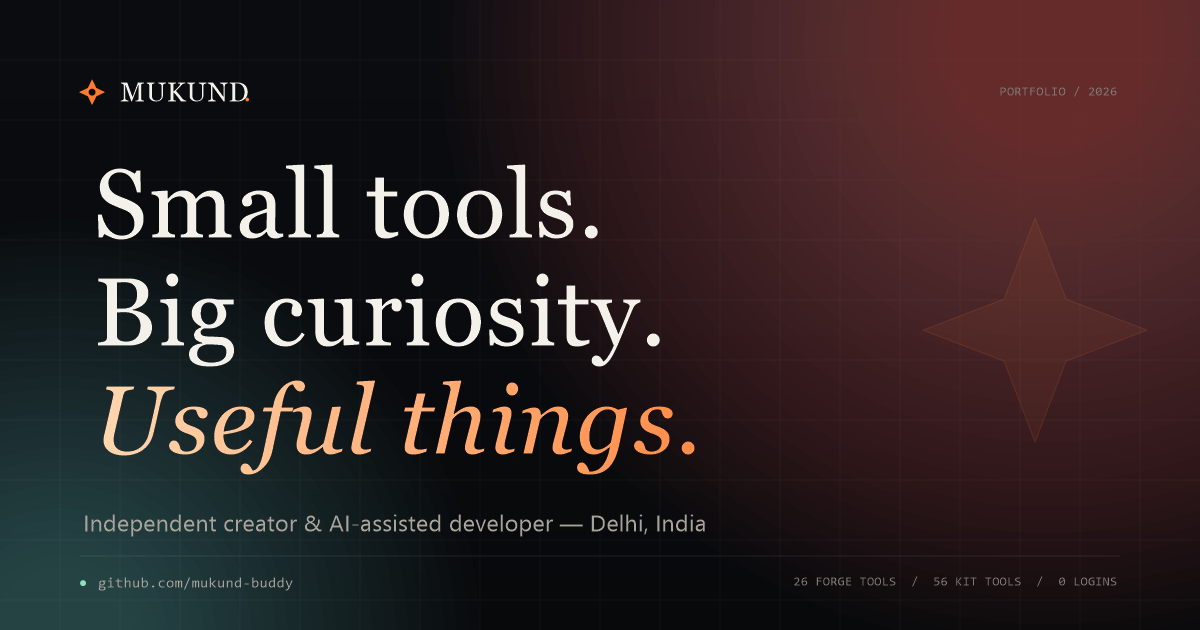
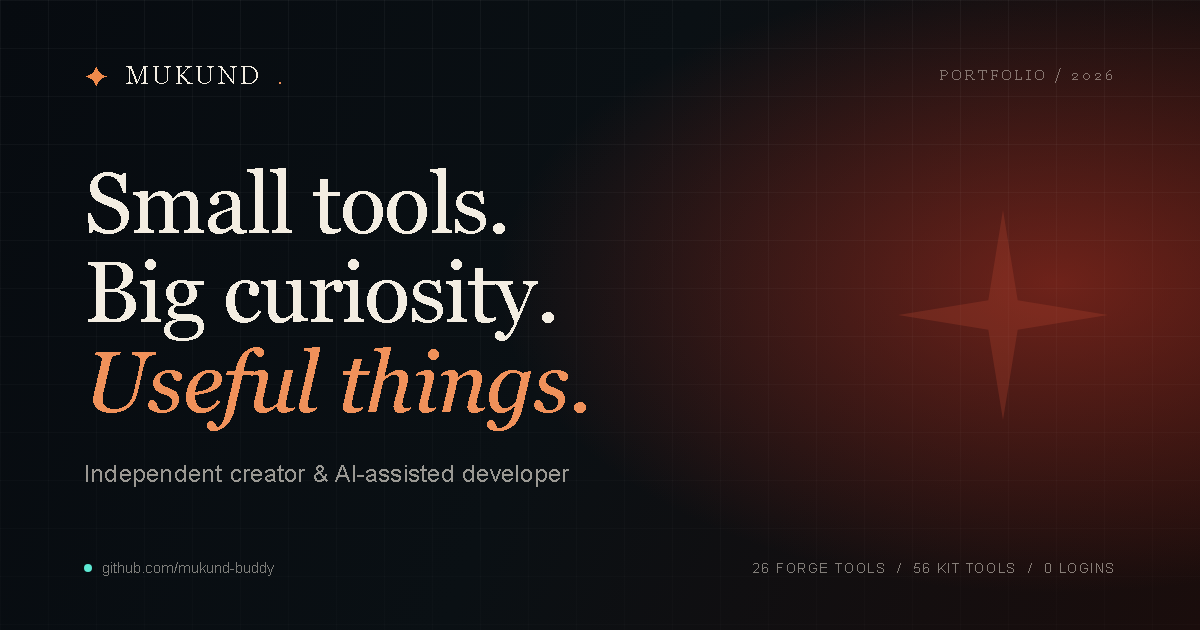
Remove personal contact details, location, and portrait

diff --git a/index.html b/index.html
@@ -4,20 +4,20 @@
   <meta charset="UTF-8">
   <meta name="viewport" content="width=device-width, initial-scale=1.0">
   <title>Mukund — Independent Creator &amp; AI-Assisted Developer</title>
-  <meta name="description" content="Mukund is an independent creator and AI-assisted developer from Delhi, building local-first browser tools, Minecraft Bedrock utilities, and open-source experiments under The Antigle. Creator of Not Gaming Playz and Adventigle.">
+  <meta name="description" content="Mukund is an independent creator and AI-assisted developer building local-first browser tools, Minecraft Bedrock utilities, and open-source experiments under The Antigle. Creator of Not Gaming Playz and Adventigle.">
   <meta name="author" content="Mukund">
   <meta name="theme-color" content="#08090b">
 
   <meta property="og:type" content="website">
   <meta property="og:title" content="Mukund — Small tools. Big curiosity. Useful things.">
-  <meta property="og:description" content="Independent creator and AI-assisted developer from Delhi. Building local-first browser tools, Minecraft Bedrock utilities, and open-source experiments. Creator of Not Gaming Playz and Adventigle.">
+  <meta property="og:description" content="Independent creator and AI-assisted developer building local-first browser tools, Minecraft Bedrock utilities, and open-source experiments. Creator of Not Gaming Playz and Adventigle.">
   <meta property="og:image" content="assets/og.png">
   <meta property="og:image:width" content="1200">
   <meta property="og:image:height" content="630">
   <meta property="og:site_name" content="Mukund">
   <meta name="twitter:card" content="summary_large_image">
   <meta name="twitter:title" content="Mukund — Small tools. Big curiosity. Useful things.">
-  <meta name="twitter:description" content="Independent creator and AI-assisted developer from Delhi. Building local-first browser tools, Minecraft Bedrock utilities, and open-source experiments. Creator of Not Gaming Playz and Adventigle.">
+  <meta name="twitter:description" content="Independent creator and AI-assisted developer building local-first browser tools, Minecraft Bedrock utilities, and open-source experiments. Creator of Not Gaming Playz and Adventigle.">
   <meta name="twitter:image" content="assets/og.png">
 
   <link rel="icon" type="image/svg+xml" href="assets/favicon.svg">
@@ -34,13 +34,7 @@
     "name": "Mukund",
     "alternateName": "mukund-buddy",
     "jobTitle": "Independent Creator & AI-Assisted Developer",
-    "description": "Independent creator and AI-assisted developer from Delhi building local-first browser tools, Minecraft Bedrock utilities, and open-source experiments under The Antigle. Creator of Not Gaming Playz and Adventigle.",
-    "email": "mailto:jmukund9625@gmail.com",
-    "address": {
-      "@type": "PostalAddress",
-      "addressLocality": "Delhi",
-      "addressCountry": "IN"
-    },
+    "description": "Independent creator and AI-assisted developer building local-first browser tools, Minecraft Bedrock utilities, and open-source experiments under The Antigle. Creator of Not Gaming Playz and Adventigle.",
     "sameAs": [
       "https://github.com/mukund-buddy",
       "https://www.youtube.com/@notgamingplayz",
@@ -75,7 +69,7 @@
       </nav>
 
       <div class="header-actions">
-        <a class="btn btn-small btn-ghost header-cta" href="mailto:jmukund9625@gmail.com">
+        <a class="btn btn-small btn-ghost header-cta" href="#contact">
           Say hello
           <svg viewBox="0 0 16 16" fill="none" stroke="currentColor" stroke-width="1.5" stroke-linecap="round" stroke-linejoin="round" aria-hidden="true"><path d="M4 12L12 4M6 4h6v6"/></svg>
         </a>
@@ -97,13 +91,12 @@
       <a href="#contact"><span>05</span>Contact</a>
     </nav>
     <div class="mobile-menu-foot">
-      <a href="mailto:jmukund9625@gmail.com">jmukund9625@gmail.com</a>
       <div class="mobile-socials">
         <a href="https://github.com/mukund-buddy" target="_blank" rel="noopener">GitHub</a>
         <a href="https://www.youtube.com/@notgamingplayz" target="_blank" rel="noopener">YouTube · Main</a>
         <a href="https://www.youtube.com/@adventigle" target="_blank" rel="noopener">YouTube · Adventigle</a>
       </div>
-      <p>Delhi, India · Open to collaborations</p>
+      <p>Open to collaborations</p>
     </div>
   </div>
 
@@ -118,13 +111,13 @@
 
       <div class="container hero-inner">
         <div class="hero-copy">
-          <p class="eyebrow"><span class="pulse-dot"></span> Independent creator · Delhi, India</p>
+          <p class="eyebrow"><span class="pulse-dot"></span> Independent creator</p>
           <h1 class="hero-title" id="hero-title">
             <span class="line"><span>Small tools.</span></span>
             <span class="line"><span>Big curiosity.</span></span>
             <span class="line"><span class="accent-italic">Useful things.</span></span>
           </h1>
-          <p class="hero-lede">I'm Mukund — an independent creator and AI-assisted developer from Delhi. I build local-first browser tools, Minecraft Bedrock utilities, and open-source experiments that respect your privacy, your time, and your attention.</p>
+          <p class="hero-lede">I'm Mukund — an independent creator and AI-assisted developer. I build local-first browser tools, Minecraft Bedrock utilities, and open-source experiments that respect your privacy, your time, and your attention.</p>
           <div class="hero-actions">
             <a class="btn btn-primary" href="#work">
               Explore the work
@@ -171,10 +164,10 @@
 
     <div class="ticker" aria-hidden="true">
       <div class="ticker-track">
-        <span>Local-first</span><i>✦</i><span>Minecraft Bedrock</span><i>✦</i><span>AI-assisted</span><i>✦</i><span>Open source</span><i>✦</i><span>Privacy-first</span><i>✦</i><span>Serverless</span><i>✦</i><span>Vanilla JS</span><i>✦</i><span>Delhi, India</span><i>✦</i>
+        <span>Local-first</span><i>✦</i><span>Minecraft Bedrock</span><i>✦</i><span>AI-assisted</span><i>✦</i><span>Open source</span><i>✦</i><span>Privacy-first</span><i>✦</i><span>Serverless</span><i>✦</i><span>Vanilla JS</span><i>✦</i><span>India</span><i>✦</i>
       </div>
       <div class="ticker-track">
-        <span>Local-first</span><i>✦</i><span>Minecraft Bedrock</span><i>✦</i><span>AI-assisted</span><i>✦</i><span>Open source</span><i>✦</i><span>Privacy-first</span><i>✦</i><span>Serverless</span><i>✦</i><span>Vanilla JS</span><i>✦</i><span>Delhi, India</span><i>✦</i>
+        <span>Local-first</span><i>✦</i><span>Minecraft Bedrock</span><i>✦</i><span>AI-assisted</span><i>✦</i><span>Open source</span><i>✦</i><span>Privacy-first</span><i>✦</i><span>Serverless</span><i>✦</i><span>Vanilla JS</span><i>✦</i><span>India</span><i>✦</i>
       </div>
     </div>
 
@@ -429,13 +422,13 @@
           <p class="section-index">02 — About</p>
           <div class="section-head-row">
             <h2 id="about-title">Learn by building.<br><em>Then build better.</em></h2>
-            <p class="section-note">No fake skills, no borrowed stories. Just a builder from Delhi who would rather ship a useful thing than talk about one.</p>
+            <p class="section-note">No fake skills, no borrowed stories. Just a builder who would rather ship a useful thing than talk about one.</p>
           </div>
         </div>
 
         <div class="about-grid">
           <div class="about-copy" data-reveal>
-            <p class="about-lead">I'm a student, creator, and builder from Delhi who learns by shipping.</p>
+            <p class="about-lead">I'm a student, creator, and builder who learns by shipping.</p>
             <p>My classroom is a browser tab. I start with a small annoyance — a file that's hard to edit, a tool that demands a login, a workflow that should be one click — and build the missing piece. Most of it ends up local-first, open source, and free to use.</p>
             <p>I work at the intersection of AI-assisted development, open-source software, and Minecraft Bedrock. I'm not chasing frameworks or buzzwords. I care about whether a thing is fast, private, and genuinely useful when someone opens it.</p>
             <p>Right now I'm sharpening my programming fundamentals, exploring local AI workflows, and growing The Antigle into a family of tools people can rely on.</p>
@@ -445,13 +438,11 @@
           <aside class="identity-card spotlight" data-reveal aria-label="Mukund's identity card">
             <div class="identity-visual" aria-hidden="true">
               <span class="monogram">M</span>
-              <img class="identity-portrait" src="assets/me.png" alt="" width="768" height="768" loading="lazy" decoding="async">
               <span class="identity-spark">✦</span>
               <span class="identity-hindi">मुकुंद</span>
             </div>
             <div class="identity-meta">
-              <div><span class="label">Based in</span><strong>Delhi, India</strong></div>
-              <div><span class="label">Coordinates</span><strong>28.61° N, 77.20° E</strong></div>
+              <div><span class="label">Based in</span><strong>India</strong></div>
               <div><span class="label">Status</span><strong class="status-live"><span class="dot"></span> Open to collaborations</strong></div>
               <div><span class="label">Working on</span><strong>The Antigle ecosystem</strong></div>
             </div>
@@ -618,22 +609,18 @@
         <h2 id="contact-title">Have a problem<br><em>worth solving?</em></h2>
         <p class="contact-lede">I'm open to collaborations, product ideas, open-source contributions, and creator projects. If you're building something useful — or want to — my inbox is open.</p>
         <div class="contact-actions">
-          <a class="btn btn-primary btn-large" href="mailto:jmukund9625@gmail.com">
-            <svg viewBox="0 0 24 24" fill="none" stroke="currentColor" stroke-width="1.5" stroke-linecap="round" stroke-linejoin="round" aria-hidden="true"><rect x="3" y="5" width="18" height="14" rx="2"/><path d="M3 7l9 6 9-6"/></svg>
-            jmukund9625@gmail.com
+          <a class="btn btn-primary btn-large" href="https://www.youtube.com/@notgamingplayz" target="_blank" rel="noopener">
+            <svg viewBox="0 0 24 24" fill="none" stroke="currentColor" stroke-width="1.5" stroke-linecap="round" stroke-linejoin="round" aria-hidden="true"><path d="M4 6h16v12H4z"/><path d="M10 9l5 3-5 3z"/></svg>
+            Message on YouTube
           </a>
-          <button class="btn btn-ghost btn-large copy-btn" type="button" data-copy="jmukund9625@gmail.com">
-            <svg viewBox="0 0 24 24" fill="none" stroke="currentColor" stroke-width="1.5" stroke-linecap="round" stroke-linejoin="round" aria-hidden="true"><rect x="9" y="9" width="11" height="11" rx="2"/><path d="M5 15V6a2 2 0 0 1 2-2h9"/></svg>
-            <span>Copy email</span>
-          </button>
         </div>
         <div class="contact-meta">
           <a href="https://github.com/mukund-buddy" target="_blank" rel="noopener">GitHub <span aria-hidden="true">↗</span></a>
           <a href="https://www.youtube.com/@notgamingplayz" target="_blank" rel="noopener">YouTube · Main <span aria-hidden="true">↗</span></a>
           <a href="https://www.youtube.com/@adventigle" target="_blank" rel="noopener">YouTube · Adventigle <span aria-hidden="true">↗</span></a>
-          <span>Delhi, India · IST (UTC+5:30)</span>
+          <span>IST (UTC+5:30)</span>
         </div>
-        <p class="contact-note">No forms, no funnels. Just email.</p>
+        <p class="contact-note">No forms, no funnels. Just a message.</p>
       </div>
     </section>
   </main>
@@ -655,7 +642,7 @@
 
       <div class="footer-bottom">
         <p>© <span id="year">2026</span> Mukund. Built with vanilla HTML, CSS &amp; JS.</p>
-        <p class="footer-time"><span class="dot"></span> Delhi · <span id="delhi-time">--:--</span> IST</p>
+        <p class="footer-time"><span class="dot"></span> IST · <span id="local-time">--:--</span></p>
         <p>No trackers. No cookies. Just a website.</p>
       </div>
     </div>

diff --git a/js/main.js b/js/main.js
@@ -282,7 +282,7 @@
     }
   }
 
-  const timeElement = $("#delhi-time");
+  const timeElement = $("#local-time");
   if (timeElement) {
     let timeFormatter = null;
     try {
@@ -369,7 +369,7 @@
 
   if (window.console && console.log) {
     console.log(
-      "%cMUKUND.%c\nSmall tools. Big curiosity. Useful things.\nBuilt with vanilla HTML, CSS & JS — no trackers, no cookies.\nSay hello: jmukund9625@gmail.com",
+      "%cMUKUND.%c\nSmall tools. Big curiosity. Useful things.\nBuilt with vanilla HTML, CSS & JS — no trackers, no cookies.\nSay hello: https://www.youtube.com/@notgamingplayz",
       "font-family:Georgia,serif;font-size:28px;color:#ff7a2f;",
       "font-family:monospace;font-size:12px;color:#a8a49b;line-height:1.7;"
     );

diff --git a/404.html b/404.html
@@ -42,9 +42,9 @@
         Back to the portfolio
         <svg viewBox="0 0 16 16" fill="none" stroke="currentColor" stroke-width="1.5" stroke-linecap="round" stroke-linejoin="round" aria-hidden="true"><path d="M4 12L12 4M6 4h6v6"/></svg>
       </a>
-      <a class="btn btn-ghost" href="mailto:jmukund9625@gmail.com">Tell me what broke</a>
+      <a class="btn btn-ghost" href="https://github.com/mukund-buddy" target="_blank" rel="noopener">Tell me on GitHub</a>
     </div>
-    <p class="contact-note">Delhi · <span id="delhi-time">--:--</span> IST</p>
+    <p class="contact-note">IST · <span id="local-time">--:--</span></p>
   </main>
 
   <footer class="site-footer">

diff --git a/README.md b/README.md
@@ -4,14 +4,13 @@
 
 # Mukund — builder, creator, and persistent learner
 
-**Student · Creator · Builder — Delhi, India**
+**Student · Creator · Builder**
 
 I make practical things for the web: local-first browser tools, Minecraft Bedrock utilities, open-source experiments, and YouTube content that teaches people how to actually fix things. Most of it is vanilla HTML, CSS, and JavaScript — no frameworks, no build steps, no sign-ups.
 
 [![YouTube — Not Gaming Playz](https://img.shields.io/badge/YouTube-%40notgamingplayz-FF0000?style=flat-square&logo=youtube&logoColor=white)](https://www.youtube.com/@notgamingplayz)
 [![YouTube — Adventigle](https://img.shields.io/badge/YouTube-%40adventigle-FF0000?style=flat-square&logo=youtube&logoColor=white)](https://www.youtube.com/@adventigle)
 [![GitHub](https://img.shields.io/badge/GitHub-%40mukund--buddy-181717?style=flat-square&logo=github&logoColor=white)](https://github.com/mukund-buddy)
-[![Email](https://img.shields.io/badge/Email-jmukund9625%40gmail.com-EA4335?style=flat-square&logo=gmail&logoColor=white)](mailto:jmukund9625@gmail.com)
 
 <br>
 
@@ -21,7 +20,7 @@ I make practical things for the web: local-first browser tools, Minecraft Bedroc
 
 ## About me
 
-- Delhi-based student building tools that run entirely in the browser.
+- Student building tools that run entirely in the browser.
 - Main channel **Not Gaming Playz** — Minecraft Bedrock tutorials, JSON UI, add-ons, and fixes.
 - **Adventigle** is my second YouTube channel, with its own community hub and video vault.
 - Local-first and privacy-first by default: no accounts, no uploads, no servers where possible.
@@ -107,13 +106,13 @@ Minecraft Bedrock JSON UI · add-ons · resource packs · local-first tooling ·
 
 ## This repository
 
-This repo also holds the source of my personal portfolio website — the single-page site previewed at the top. It is plain HTML, CSS, and JavaScript with no build step. The About section uses `assets/me.png`, the original portrait photo.
+This repo also holds the source of my personal portfolio website — the single-page site previewed at the top. It is plain HTML, CSS, and JavaScript with no build step. The About section uses a typographic monogram instead of a portrait.
 
 ## Contact
 
 <div align="center">
 
-**[YouTube — Not Gaming Playz](https://www.youtube.com/@notgamingplayz)** · **[YouTube — Adventigle](https://www.youtube.com/@adventigle)** · **[GitHub — @mukund-buddy](https://github.com/mukund-buddy)** · **[Email](mailto:jmukund9625@gmail.com)**
+**[YouTube — Not Gaming Playz](https://www.youtube.com/@notgamingplayz)** · **[YouTube — Adventigle](https://www.youtube.com/@adventigle)** · **[GitHub — @mukund-buddy](https://github.com/mukund-buddy)**
 
 </div>
 
